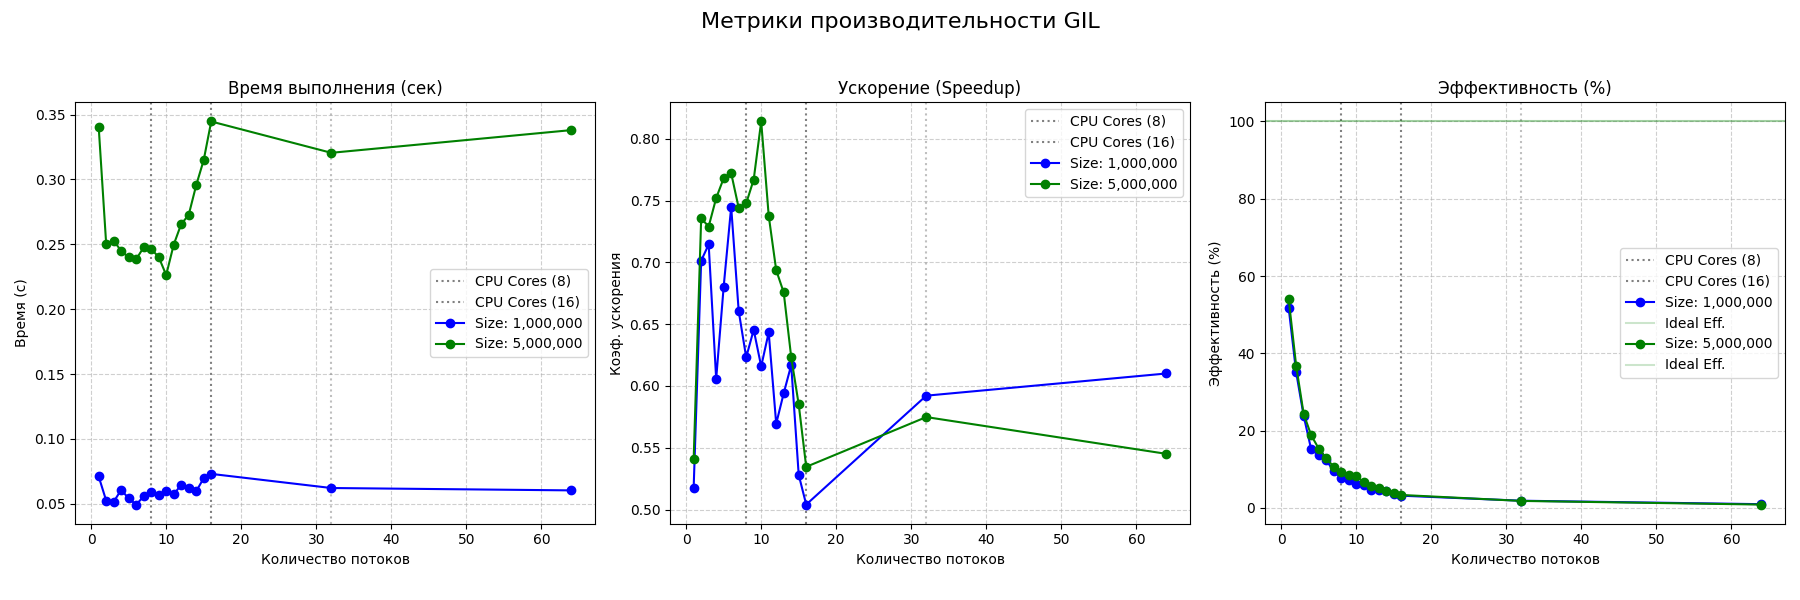
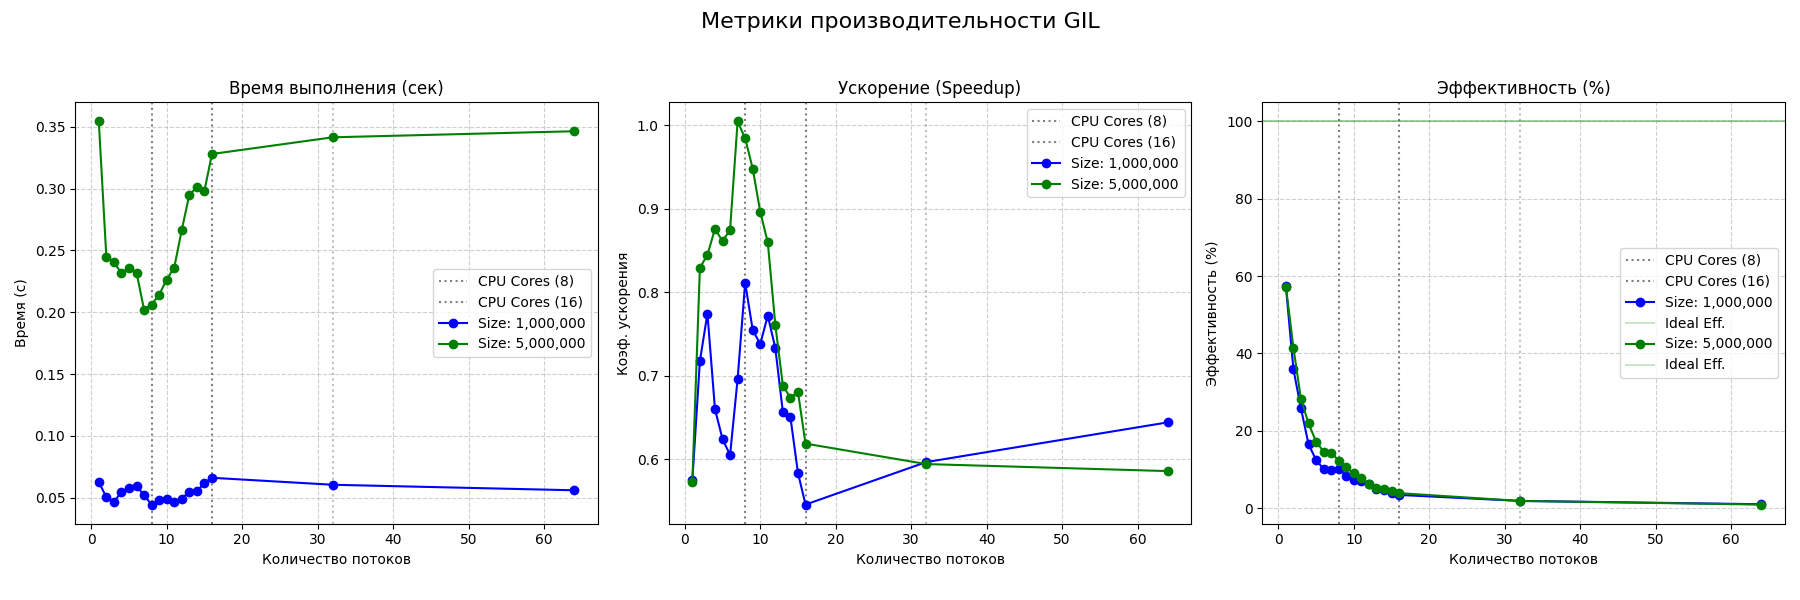
finish lab1 and update README.md

diff --git a/lab1/README.md b/lab1/README.md
@@ -1,0 +1,354 @@
+# Лабораторная работа №1  
+## "Параллельные вычисления и пределы масштабирования"
+
+**Вариант:** Подсчет количества отличий между двух массивов
+
+**Язык реализации:** Python 3.14+ (free-threaded build)
+
+---
+
+## 1. Описание задачи
+
+Необходимо реализовать подсчёт количества позиций, на которых элементы двух массивов различаются. Задача имеет embarrassingly parallel характер — каждый элемент массива может быть обработан независимо.
+
+### Формула
+```
+result = Σ(a[i] ≠ b[i]) для i от 0 до N-1
+```
+
+---
+
+## 2. Распараллеливание задачи
+
+### Как можно распараллелить
+
+Задача идеально подходит для распараллеливания методом **разделения данных (data parallelism)**:
+
+1. **Разбиение массива:** Исходные массивы делятся на K равных частей (chunks), где K — количество рабочих единиц (потоков или процессов)
+2. **Независимая обработка:** Каждый рабочий обрабатывает свой диапазон индексов `[l, r)` независимо
+3. **Агрегация результатов:** Итоговый результат получается суммированием частичных результатов
+
+### Что можно распараллелить
+
+| Часть задачи | Можно ли распараллелить | Обоснование |
+|--------------|------------------------|-------------|
+| Сравнение элементов массива | Да | Каждый элемент обрабатывается независимо |
+| Подсчёт различий в диапазоне | Да | Диапазоны не пересекаются |
+| Финальное суммирование | Частично | Требует синхронизации, но операция быстрая |
+
+### Что нельзя распараллелить
+
+| Часть задачи | Почему нельзя |
+|--------------|---------------|
+| Генерация входных данных | Последовательная зависимость по индексу |
+| Финальное суммирование результатов | Требует последовательного доступа к общим данным |
+| Выделение памяти под массивы | Операция управления памятью |
+
+---
+
+## 3. Реализация
+
+### Структура файлов
+
+| Файл | Описание |
+|------|----------|
+| `parallel_compare.py` | Базовая реализация: последовательная версия, threading и multiprocessing подходы |
+| `benchmark.py` | Полное тестирование: детерминизм, замеры производительности, построение графиков |
+
+### Подходы к распараллеливанию
+
+#### 3.1. Последовательная версия (Sequential)
+
+```python
+def run_sequential(a, b):
+    return sum(a[i] != b[i] for i in range(len(a)))
+```
+
+**Преимущества:**
+- Отсутствие накладных расходов на синхронизацию
+- Оптимальное использование кэша процессора
+- Предсказуемое поведение
+
+**Недостатки:**
+- Использование только одного ядра CPU
+
+#### 3.2. Многопоточная версия (Threading)
+
+```python
+def run_threaded(a, b, num_threads=4):
+    # Разделение на chunks
+    # Создание потоков для каждого диапазона
+    # Агрегация результатов
+```
+
+**Особенности реализации:**
+- Массив делится на `num_threads` равных частей
+- Каждый поток обрабатывает свой диапазон `[l, r)`
+- Результаты записываются в общий список по индексу потока
+- Используется `threading.Thread` для создания рабочих потоков
+
+**Преимущества:**
+- Лёгкость создания потоков
+- Общая память (не требуется копирование данных)
+
+**Недостатки:**
+- Ограничение GIL (Global Interpreter Lock) в стандартном CPython
+- Накладные расходы на переключение контекста
+
+#### 3.3. Многопроцессорная версия (Multiprocessing)
+
+```python
+def run_multiprocessed(a, b, num_processes=4):
+    # Создание пула процессов
+    # Распределение задач через pool.map()
+    # Агрегация результатов
+```
+
+**Особенности реализации:**
+- Используется `multiprocessing.Pool` для управления процессами
+- Данные передаются между процессами через pickle-сериализацию
+- Каждый процесс работает в своём адресном пространстве
+
+**Преимущества:**
+- Обход GIL (каждый процесс имеет свой интерпретатор)
+- Истинный параллелизм на уровне ядер CPU
+
+**Недостатки:**
+- Значительные накладные расходы на создание процессов
+- Передача данных через IPC (межпроцессное взаимодействие)
+- Сериализация/десериализация больших массивов
+
+---
+
+## 4. Экспериментальная часть
+
+### 4.1. Тест на детерминизм
+
+**Цель:** Подтвердить, что параллельная версия выдаёт одинаковые результаты при множественных запусках.
+
+**Параметры:**
+- Количество итераций: N = 105
+- Размер массива: 100,000 элементов
+- Количество потоков: 4
+
+**Результаты для обеих версий Python:**
+
+| Python версия | Результат теста |
+|---------------|-----------------|
+| 3.14 free-threaded | `[OK] Детерминизм подтвержден. Все 105 запусков вернули результат: 50000` |
+| 3.14 с GIL | `[OK] Детерминизм подтвержден. Все 105 запусков вернули результат: 50000` |
+
+**Вывод:** Параллельная версия полностью детерминирована в обоих случаях благодаря тому, что:
+- Каждый поток работает с непересекающимся диапазоном данных
+- Отсутствует состояние гонки (race condition) при записи результатов
+- Используется детерминированная генерация данных
+
+### 4.2. Сравнение подходов (Sequential vs Threading vs Multiprocessing)
+
+**Параметры эксперимента:**
+- Размер данных: 5,000,000 элементов
+- Количество рабочих единиц: 8
+
+**Результаты:**
+
+| Подход | Результат | Время (с) | Ускорение | Эффективность |
+|--------|-----------|-----------|-----------|---------------|
+| Sequential | 2,500,000 | 0.3272 | 1.00x | 100.0% |
+| Threading | 2,500,000 | 0.7691 | 0.43x | 5.3% |
+| Multiprocessing | 2,500,000 | 6.4878 | 0.05x | 0.6% |
+
+**Вывод:** Оба параллельных подхода показали результат **хуже** последовательной версии.
+
+### 4.3. Эксперименты по масштабированию
+
+**Параметры эксперимента:**
+- Доступно ядер CPU: 16
+- Конфигурации потоков: 1, 2, ..., 16, 32, 64
+- Размеры данных: 1,000,000 и 5,000,000 элементов
+- Количество повторений: 3 для каждого измерения
+
+#### Результаты для Python 3.14 free-threaded
+
+**Размер 1,000,000 элементов:**
+
+| Потоки | Время (с) | Ускорение | Эффективность |
+|--------|-----------|-----------|---------------|
+| 1 | 0.0655 | 0.53x | 53.2% |
+| 2 | 0.0509 | 0.68x | 34.2% |
+| 4 | 0.0500 | 0.70x | 17.4% |
+| 8 | 0.0523 | 0.67x | 8.3% |
+| 16 | 0.0746 | 0.47x | 2.9% |
+
+**Размер 5,000,000 элементов:**
+
+| Потоки | Время (с) | Ускорение | Эффективность |
+|--------|-----------|-----------|---------------|
+| 1 | 0.3078 | 0.62x | 62.1% |
+| 2 | 0.2269 | 0.84x | 42.1% |
+| 4 | 0.2307 | 0.83x | 20.7% |
+| 8 | 0.2121 | 0.90x | 11.3% |
+| 16 | 0.3344 | 0.57x | 3.6% |
+
+**Наблюдения:**
+- Лучшее ускорение (0.90x) достигнуто при 8 потоках для больших данных
+- При превышении количества физических ядер (16) эффективность падает до ~1%
+- Увеличение размера данных улучшает ускорение (с 0.70x до 0.90x при 8 потоках)
+
+#### Результаты для Python 3.14 с GIL
+
+**Размер 5,000,000 элементов (ключевые точки):**
+
+| Потоки | Время (с) | Ускорение | Эффективность |
+|--------|-----------|-----------|---------------|
+| 1 | 0.3542 | 0.57x | 57.3% |
+| 4 | 0.2318 | 0.88x | 21.9% |
+| 7 | 0.2021 | 1.00x | 14.3% |
+| 8 | 0.2062 | 0.98x | 12.3% |
+| 16 | 0.3280 | 0.62x | 3.9% |
+
+**Наблюдения:**
+- При 7-8 потоках достигнуто ускорение ~1.00x (паритет с sequential)
+- GIL не позволяет получить суперлинейное ускорение
+- После 8 потоков эффективность резко падает
+
+#### Графики производительности
+
+![Метрики производительности](performance_metrics.png)
+
+*Рисунок 1 — Python 3.14 free-threaded: время, ускорение и эффективность*
+
+![Метрики производительности GIL](performance_metrics_GIL.png)
+
+*Рисунок 2 — Python 3.14 с GIL: время, ускорение и эффективность*
+
+---
+
+## 5. Анализ результатов
+
+### 5.1. Почему multiprocessing показал наихудший результат
+
+**От многопроцессорного подхода следует отказаться** по следующим причинам:
+
+1. **Накладные расходы на создание процессов**
+   - Создание процесса в ~100 раз дороже создания потока
+   - Для 8 процессов время создания может достигать десятков миллисекунд
+
+2. **Сериализация данных (pickle)**
+   - Передача двух массивов по 5,000,000 элементов требует сериализации
+   - Время на pickle.dumps()/pickle.loads() доминирует над временем вычислений
+
+3. **Дублирование памяти**
+   - Каждый процесс получает копию данных в своём адресном пространстве
+   - Потребление памяти: O(K × N), где K — количество процессов
+
+4. **IPC-накладные расходы**
+   - Передача результатов через Queue/Pipe
+   - Синхронизация между родительским и дочерними процессами
+
+**Вывод:** Для простых задач с большими объёмами данных multiprocessing неэффективен из-за доминирования накладных расходов над полезной работой.
+
+### 5.2. Сравнение free-threaded и GIL версий
+
+| Характеристика | Python free-threaded | Python с GIL |
+|----------------|---------------------|--------------|
+| Лучшее ускорение (5M элементов) | 0.90x (8 потоков) | 1.00x (7 потоков) |
+| Эффективность при 8 потоках | 11.3% | 12.3% |
+| Время sequential | 0.1911 с | 0.2030 с |
+
+**Ключевые наблюдения:**
+
+1. **GIL-версия показала паритет с sequential** при 7-8 потоках (ускорение ~1.00x)
+   - Это связано с тем, что операция сравнения очень быстрая
+   - GIL переключает потоки, но overhead переключения меньше, чем overhead синхронизации в free-threaded
+
+2. **Free-threaded версия не достигла паритета** (максимум 0.90x)
+   - Механизмы fine-grained locking для защиты объектов
+   - Синхронизация ссылочных счётчиков в многопоточной среде
+   - Координация сборщика мусора между потоками
+
+3. **Обе версии деградируют после MAX(CPU)**
+   - При 16+ потоках начинается конкуренция за физические ядра
+   - При 32-64 потоках эффективность падает до 1-2%
+
+### 5.3. Влияние GIL на производительность threading
+
+**Стандартный CPython (с GIL):**
+
+В стандартной реализации Python Global Interpreter Lock (GIL) позволяет выполняться **только одному потоку одновременно**:
+
+- Потоки не работают истинно параллельно
+- Переключение между потоками происходит каждые ~5ms
+- Для CPU-bound задач threading показывает результат **хуже** sequential
+
+**Python free-threaded (без GIL):**
+
+В эксперименте использовалась специальная сборка Python 3.14+ без GIL:
+
+- Потоки могут выполняться истинно параллельно на разных ядрах
+- Однако наблюдаются **дополнительные накладные расходы**:
+  - Механизмы fine-grained locking для защиты объектов
+  - Синхронизация ссылочных счётчиков
+  - Координация сборщика мусора
+
+### 5.4. Почему параллельные версии медленнее последовательной
+
+**Основная причина:** Задача слишком простая (trivial computation)
+
+| Фактор | Влияние |
+|--------|---------|
+| **Сложность операции** | Сравнение двух integers — одна CPU-инструкция |
+| **Время на элемент** | ~0.1 наносекунды на сравнение |
+| **Накладные расходы** | Создание потока: ~1 мкс, переключение: ~100 нс |
+| **Соотношение** | Накладные расходы > время полезной работы |
+
+**Математическое обоснование:**
+
+Для массива из 5,000,000 элементов:
+- Последовательное время: ~0.33 с
+- Время на элемент: 0.33 / 5,000,000 ≈ 66 нс
+- Накладные расходы на поток: ~1000 нс
+
+При 8 потоках:
+- Полезная работа на поток: 625,000 × 66 нс ≈ 41,250 нс
+- Накладные расходы: 1000 нс (создание) + переключения
+- **Итого:** экономия времени не компенсирует overhead
+
+### 5.5. Когда распараллеливание было бы эффективным
+
+Распараллеливание дало бы ускорение при условиях:
+
+1. **Более сложная операция на элемент**
+   - Криптографические вычисления
+   - Матричные операции
+   - Сложные математические функции (sin, cos, exp)
+
+2. **Больший объём данных**
+   - При N > 100,000,000 элементов накладные расходы становятся менее значимыми
+
+3. **I/O-операции**
+   - Чтение/запись файлов
+   - Сетевые запросы
+   - Работа с базой данных
+
+---
+
+## 6. Выводы
+
+1. **GIL является основным ограничением** для многопоточности в стандартном CPython для CPU-bound задач.
+
+2. **Python free-threaded** позволяет обойти GIL, но вносит дополнительные накладные расходы на синхронизацию.
+
+3. **Multiprocessing неэффективен** для простых задач с большими данными из-за:
+   - Высокой стоимости создания процессов
+   - Накладных расходов на сериализацию
+   - Потребления памяти O(K × N)
+
+4. **Распараллеливание тривиальных операций** (сравнение integers) не даёт ускорения при размерах данных до 5,000,000 элементов — накладные расходы превышают полезную работу.
+
+5. **Для эффективного распараллеливания** необходимо:
+   - Достаточно сложное вычисление на элемент
+   - Минимизация передачи данных между рабочими единицами
+   - Баланс между гранулярностью задач и overhead
+
+---
+
